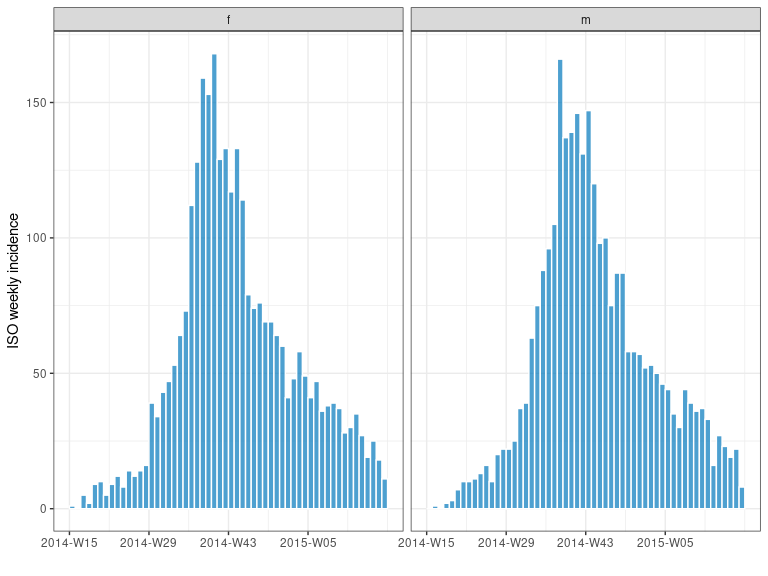
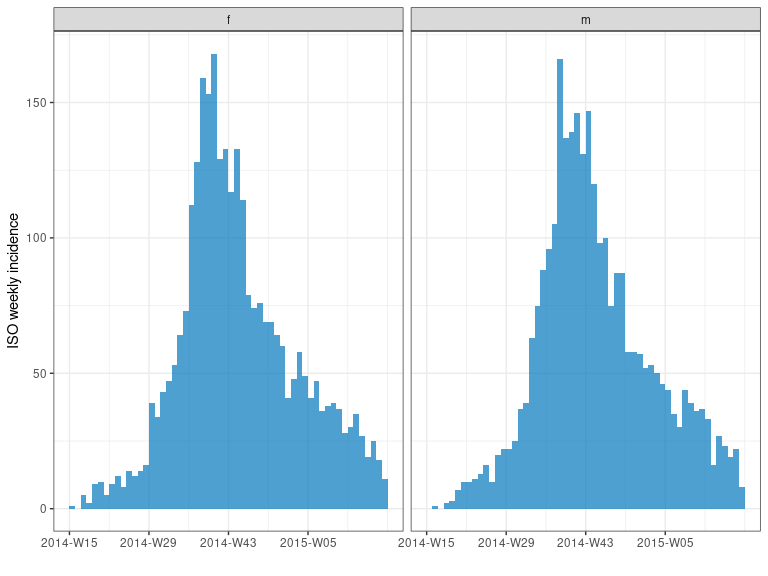
updating  the plot interface

Changed region(s): [[0.0938, 0.125, 0.5, 0.9062], [0.5625, 0.1875, 0.9688, 0.9062]]

diff --git a/README.md b/README.md
@@ -193,12 +193,12 @@ summary(i_7_sex)
 #>   <fct>  <int>
 #> 1 f       2934
 #> 2 m       2895
-plot(i_7_sex, stack = TRUE, color = "black")
+plot(i_7_sex, fill = "gender", color = "black")
 ```
 
 ![](figs/genderstack-1.png)<!-- -->
 
-we can facet our plot:
+we can facet our plot (grouping detected automatically):
 
 ``` r
 facet_plot(i_7_sex, n_breaks = 4)
@@ -206,7 +206,8 @@ facet_plot(i_7_sex, n_breaks = 4)
 
 ![](figs/genderfacet-1.png)<!-- -->
 
-and we can also group by multiple variables
+and we can also group by multiple variables specifying different facets
+and fills
 
 ``` r
 # incidence is compatible with the magrittr pipe operator
@@ -257,7 +258,7 @@ i_7_sh %>% summary()
 #> 4 Princess Christian Maternity Hospital (PCMH)   420
 #> 5 Rokupa Hospital                                451
 #> 6 <NA>                                          1456
-i_7_sh %>% facet_plot(n_breaks = 2, nrow = 4, fill = hospital)
+i_7_sh %>% facet_plot(facets = gender, fill = hospital)
 ```
 
 ![](figs/genderhospital-1.png)<!-- -->
